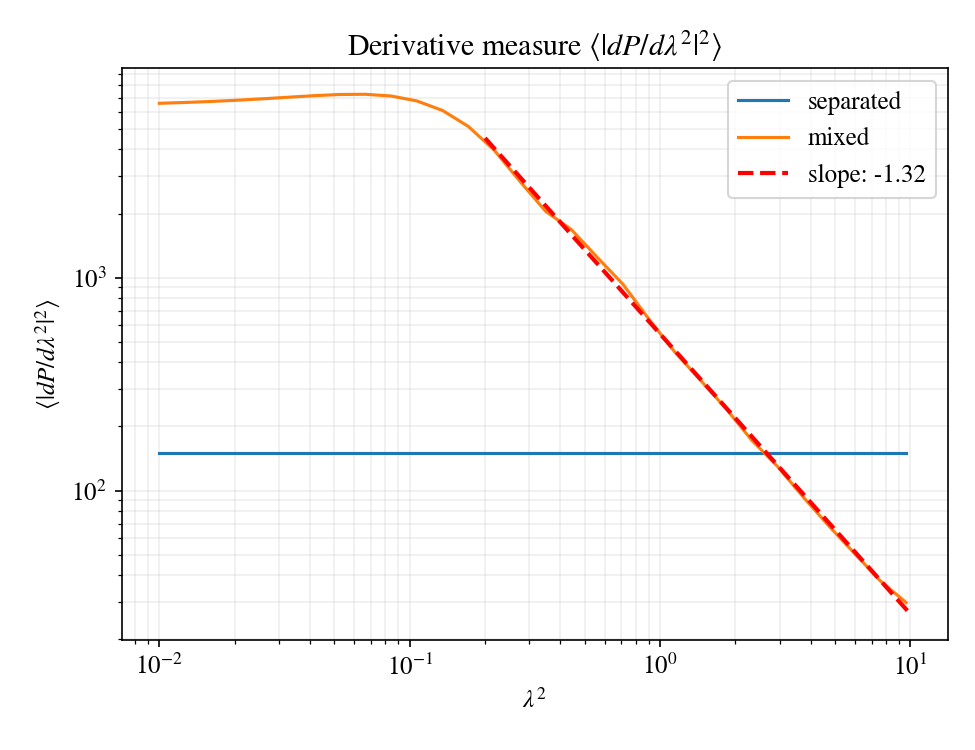
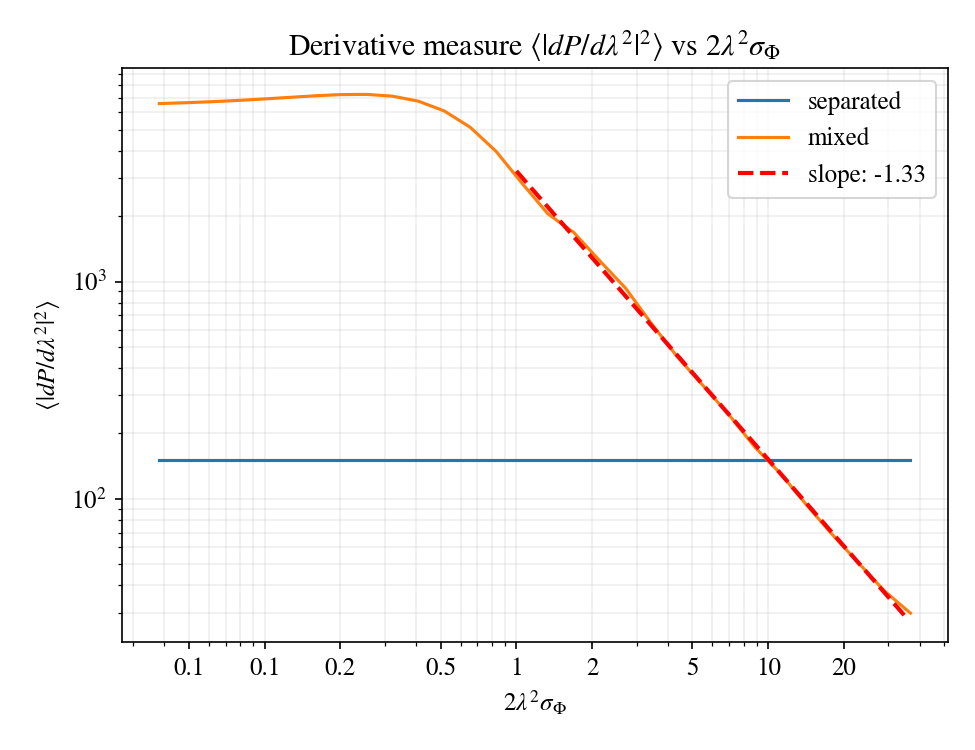
Plot new derivative measure

diff --git a/compare_measures/pfa_and_derivative_lp_16_like.py b/compare_measures/pfa_and_derivative_lp_16_like.py
@@ -232,31 +232,49 @@ def plot_pfa(lam2: np.ndarray, var_list: list, labels: list, cfg: PFAConfig,
 
 
 def plot_pfa_derivative(lam2: np.ndarray, var_list: list, labels: list, cfg: PFAConfig,
-                        title: str = r"Derivative measure $\langle|dP/d\lambda^2|^2\rangle$ vs $\lambda^2$"):
+                        title: str = r"Derivative measure $\langle|dP/d\lambda^2|^2\rangle$ vs $2\lambda^2\sigma_{\Phi}$",
+                        sigma_phi: float = 1.9101312160491943):
     plt.figure(figsize=(6.5, 5.0))
     
+    # Convert λ² to 2λ²σ_Φ
+    x_axis = 2 * lam2 * sigma_phi
+    
     for var, lab in zip(var_list, labels):
-        plt.loglog(lam2, var, label=lab)
+        plt.loglog(x_axis, var, label=lab)
     
     # Slope guide for the mixed case (second curve)
     if len(var_list) > 1:
-        m, a = fit_log_slope(lam2, var_list[1], xmin=0.2, xmax=10.0)  # Use mixed case (index 1)
+        m, a = fit_log_slope(x_axis, var_list[1], xmin=1.0, xmax=35.0)  # Use mixed case (index 1)
         if np.isfinite(m):
             # Draw fitted line over the fitting range
-            xline = np.linspace(0.2, 10.0, 100)
+            xline = np.linspace(1.0, 35.0, 100)
             yline = 10**(a + m * np.log10(xline))
             plt.loglog(xline, yline, '--', linewidth=2, label=f"slope: {m:.2f}", color="red")
     
     # Mark λ = lam_mark
     lam_mark2 = cfg.lam_mark**2
+    x_mark = 2 * lam_mark2 * sigma_phi
     for var, lab in zip(var_list, labels):
-        # interpolate value at λ²
-        vmark = np.interp(lam_mark2, lam2, var)
-        # plt.scatter([lam_mark2], [vmark], marker='o')
+        # interpolate value at 2λ²σ_Φ
+        vmark = np.interp(x_mark, x_axis, var)
+        # plt.scatter([x_mark], [vmark], marker='o')
     
-    plt.xlabel(r"$\lambda^2$")
+    plt.xlabel(r"$2\lambda^2\sigma_{\Phi}$")
     plt.ylabel(r"$\langle |dP/d\lambda^2|^2 \rangle$")
     plt.title(title)
+    
+    # Set meaningful x-axis ticks for 2λ²σ_Φ
+    x_min, x_max = x_axis.min(), x_axis.max()
+    # Create ticks at round numbers: 0.1, 0.5, 1, 2, 5, 10, etc.
+    tick_values = []
+    for exp in range(-2, 3):  # 0.01 to 100
+        for mult in [1, 2, 5]:
+            val = mult * 10**exp
+            if x_min <= val <= x_max:
+                tick_values.append(val)
+    
+    if tick_values:
+        plt.xticks(tick_values, [f"{val:.1f}" if val < 1 else f"{val:.0f}" for val in tick_values])
     
     plt.grid(True, which='both', alpha=0.2)
     plt.legend()
@@ -280,7 +298,7 @@ def run(h5_path: str):
     lam2_dsep, dvar_sep = pfa_curve_derivative_separated(Pi, phi, cfg)
     lam2_dmix, dvar_mix = pfa_curve_derivative_mixed(Pi, phi, cfg)
     plot_pfa_derivative(lam2_dsep, [dvar_sep, dvar_mix], ["separated", "mixed"], cfg,
-                        title="Derivative measure $\\langle|dP/d\\lambda^2|^2\\rangle$")
+                        title="Derivative measure $\\langle|dP/d\\lambda^2|^2\\rangle$ vs $2\\lambda^2\\sigma_{\\Phi}$")
     plt.savefig("lp2016_outputs/derivative_spectra.png", dpi=150)
     plt.show()
 
